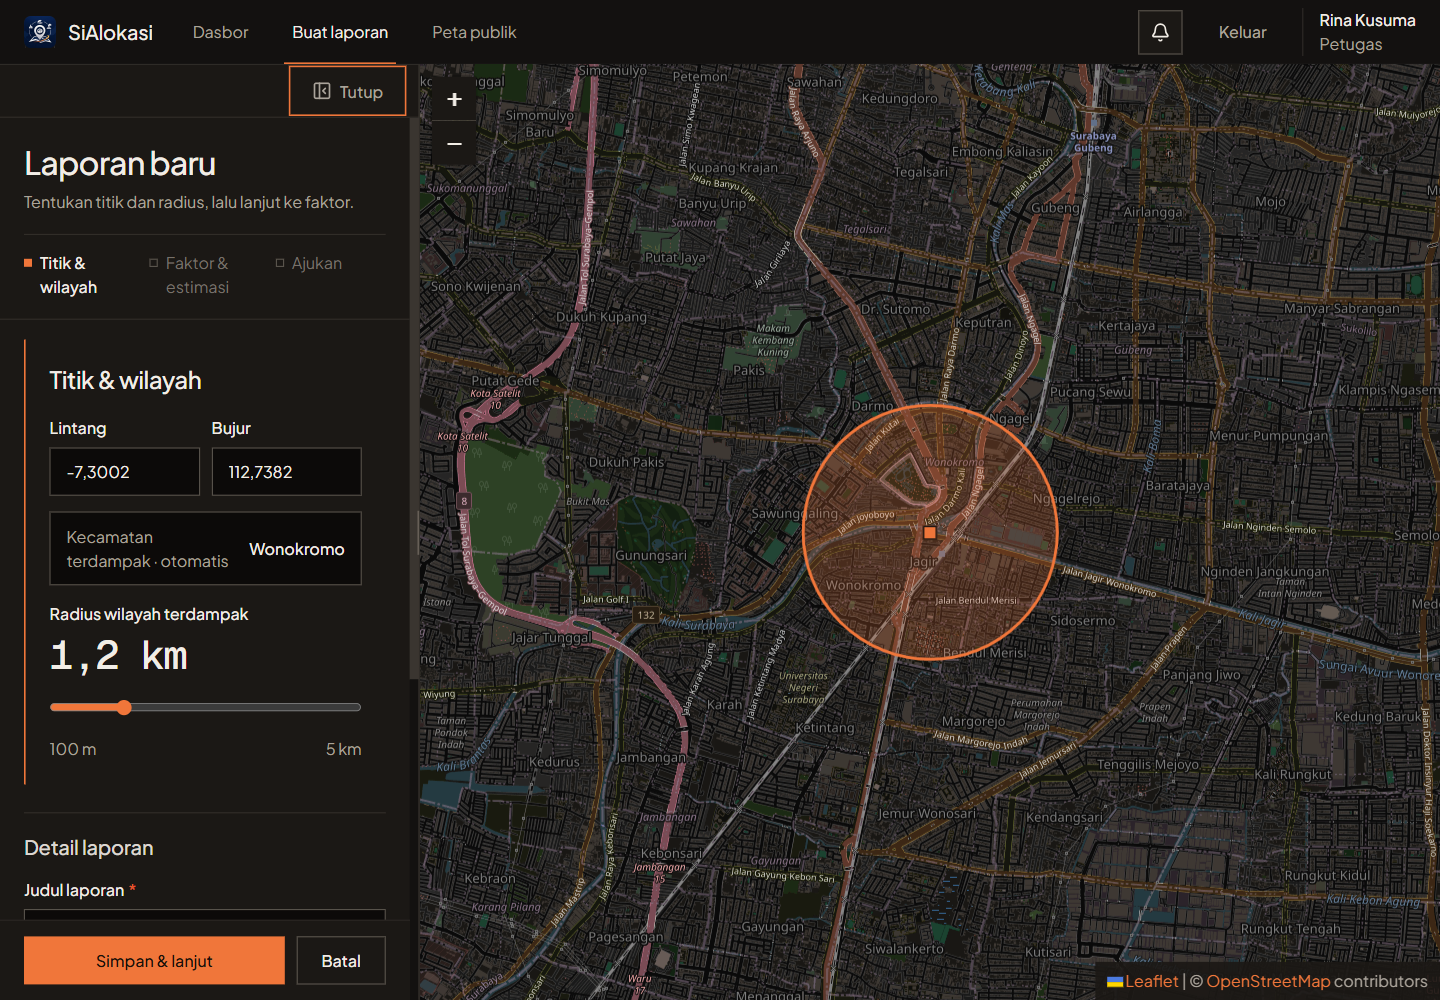
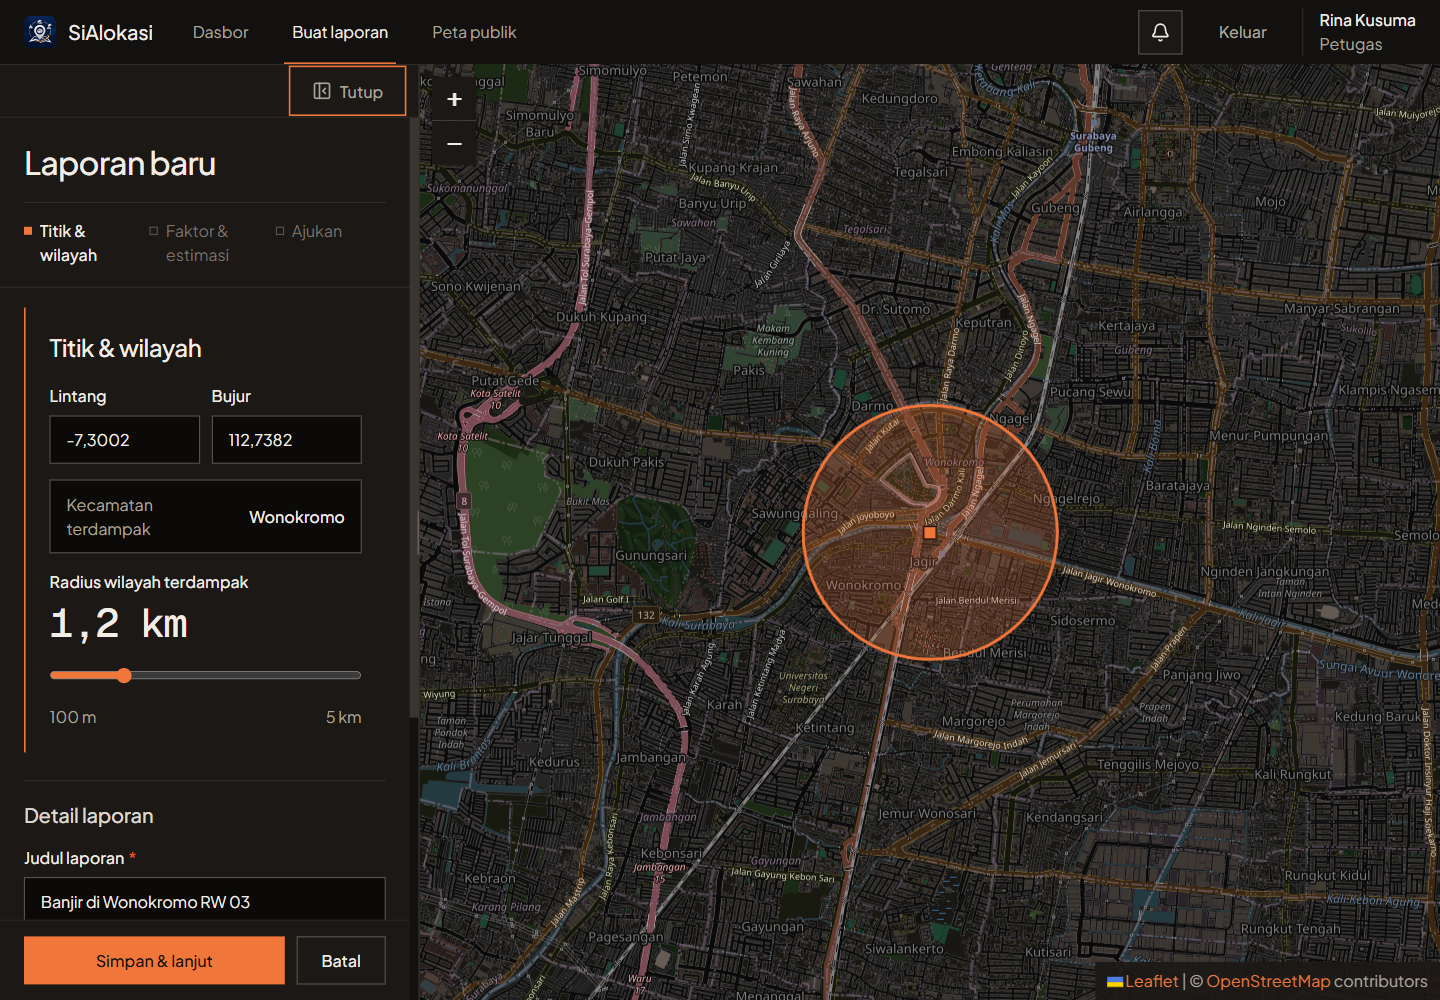
docs(r2): aturan tanpa kalimat penggantung + bukti sapuan kedua
- AGENTS.md (lokal, tidak ikut ter-push) mematok 4 pengecualian dan cara memeriksa
- PRD: NFR-16; papan sprint mencatat sapuan; bukti revisi diperbarui + tangkapan layar baru

diff --git a/docs/bukti/revisi-2026-11-13.md b/docs/bukti/revisi-2026-11-13.md
@@ -55,3 +55,73 @@ npm run dev                       # api + web menyala
 node scripts/capture-revisi.mjs   # Chrome dengan --remote-debugging-port=9222
 npm run demo:reset                # kembali ke kondisi bersih
 ```
+
+---
+
+## Tambahan: sapuan "tanpa kalimat penggantung" (2026-11-13, putaran kedua)
+
+Pemilik proyek memberi daftar sembilan kalimat yang menurutnya tidak perlu, lalu meminta polanya
+dipatok menjadi gaya proyek dan disapu ke seluruh halaman.
+
+### Analisis pola
+
+Kesembilan kalimat itu ternyata termasuk lima kategori yang sama:
+
+| Kategori | Contoh dari daftar pemilik |
+| :-- | :-- |
+| Tagline di bawah judul yang hanya mengulang langkah | "Tentukan titik dan radius, lalu lanjut ke faktor." · "Isi faktor lapangan, lalu hitung estimasi." |
+| Kalimat alasan / penenangan (editorial) | "Faktor dipakai untuk menghitung kebutuhan, bukan untuk menilai siapa yang salah." |
+| Contoh pada `hint` yang mengulang label | "Sebutkan sendiri, misalnya: tanah longsor atau letusan gunung." |
+| Penjelas status yang mengulang chip status | "Masih bisa disunting sebelum diajukan." · "Sudah terkunci dan menunggu keputusan pimpinan." · "Distribusi sudah dilakukan" |
+| Sufiks kualifier & penghitung jumlah | "Kecamatan terdampak · otomatis" · "Lima laporan terakhir dari akun Anda." |
+
+### Yang dihapus
+
+**31 kalimat dihapus dan 5 dipendekkan di 19 berkas** (`apps/web/src`):
+
+| Halaman | Yang berubah |
+| :-- | :-- |
+| Beranda publik | tagline "Pilih kejadian di peta atau daftar untuk melihat rinciannya." |
+| Buat laporan | tagline "Tentukan titik dan radius…", hint "Sebutkan sendiri…", label "Kecamatan terdampak · otomatis" → "Kecamatan terdampak" |
+| Dasbor petugas | 3 `hint` status pada kartu ringkasan + "Lima laporan terakhir dari akun Anda." |
+| Faktor & estimasi | `brief` judul + `brief` bagian "Faktor lapangan" |
+| Ajukan laporan | `brief` "Periksa rincian bantuan, lalu ajukan ke pimpinan." |
+| Dasbor pimpinan | `brief` judul, `brief` "Antrian keputusan", kalimat "Jumlah dihitung terpisah per jenis…" |
+| Tinjau laporan | 2 `brief` + `hint` "Alasan perubahan"; `hint` penolakan dipendekkan jadi "Minimal 5 karakter." |
+| Izin distribusi | `brief` "Periksa dokumen…", `hint` "Alasan koreksi", kalimat riwayat koreksi dipendekkan |
+| Lacak status | tetap mempertahankan "Kode diberikan petugas saat laporan dibuat." (informasi unik) |
+| Masuk / daftar | `brief` langkah email, 2 `hint` pada formulir daftar |
+| Admin (akun, ringkasan, wilayah, jenis bantuan, audit) | 6 `brief` judul halaman |
+| Panel demo | 2 `brief`; peringatan reset **tetap dipertahankan** |
+| Komponen peta posko | kalimat dipendekkan jadi "Klik peta untuk memindahkan titik posko." |
+| Pustaka komponen (`/ui`) | 1 `hint` dipendekkan jadi "Boleh dikosongkan." |
+
+### Yang dipertahankan (masuk salah satu pengecualian)
+
+| Kalimat | Alasan |
+| :-- | :-- |
+| "Reset menghapus seluruh laporan, izin, jurnal stok, audit, dan sesi masuk…" | peringatan aksi merusak |
+| "Menipis berarti sisa ≤ 20% dari stok tertinggi item yang sama." | aturan isi yang tidak bisa ditebak |
+| "Izin yang sudah digantikan koreksi tidak dihitung dua kali." | aturan hitung |
+| "Boleh tetap sama atau diganti. Stok posko sebelumnya akan dikembalikan." | konsekuensi |
+| "Kode diberikan petugas saat laporan dibuat." · "Mode demo: kode selalu 123456." | informasi unik |
+| "Total kelompok rentan tidak boleh melebihi jumlah jiwa terdampak." | syarat isi formulir |
+| Catatan API (`append-only`, privasi pelapor, lingkup notifikasi) | aturan & privasi |
+| Pesan error/warning dan `EmptyState` | selalu menyebut langkah berikutnya |
+
+### Pengerasan aturan
+
+1. `AGENTS.md` §7 — aturan **"Tanpa kalimat penggantung"** beserta 4 pengecualian, daftar contoh
+   terlarang, dan cara memeriksa (`brief=`, `hint=`, `<p>` muted di bawah judul).
+2. `docs/prd/prd.md` — `NFR-16`.
+3. `verify:m1` — dua pemeriksaan baru: frasa terlarang (10 frasa dipantau) dan pola langkah pada
+   `brief`/`hint` (`lalu`, `untuk melihat`, `agar`) harus 0 hasil.
+
+### Hasil pengujian
+
+| Pemeriksaan | Hasil |
+| :-- | :-- |
+| `npm run build` | lulus |
+| `npm test` | 100/100 lulus |
+| `verify:m1` | **20 pemeriksaan lulus** (termasuk 2 pemeriksaan gaya teks baru) |
+| `node scripts/capture-revisi.mjs` | **12/12 lulus, 0 kesalahan konsol** — tangkapan layar diperbarui |

diff --git a/docs/prd/prd.md b/docs/prd/prd.md
@@ -188,6 +188,7 @@ Pendaftaran mandiri hanya untuk peran **Petugas** dan harus diaktifkan Admin. Pi
 | `NFR-13` | Model deterministik & berversi; hasil bisa direproduksi | Jalankan 10× dengan input sama → identik |
 | `NFR-14` | Data pribadi minimal: Tamu tidak melihat kontak pelapor | Periksa respons API publik |
 | `NFR-15` | Semua warna dari token `@theme`; tidak ada hex lepas di halaman | Pencarian `#` di `apps/web/src` selain token = 0 |
+| `NFR-16` | Tanpa kalimat penggantung: `brief`/`hint` hanya untuk peringatan aksi, aturan isi, konsekuensi, atau pesan gagal — bukan tagline atau pengulang langkah | `verify:m1`: frasa terlarang & pola langkah pada `brief`/`hint` = 0 hasil |
 
 ---
 

diff --git a/docs/rencana-sprint.md b/docs/rencana-sprint.md
@@ -576,6 +576,7 @@ menunggu, dan jalan masuk laporan yang sudah disetujui).
 - [x] 31 kecamatan tersedia dan deteksi titik diuji (termasuk Mulyorejo).
 - [x] Tidak ada kolom lama penanganan di formulir maupun API.
 - [x] Dasbor menampilkan bantuan menunggu per jenis dan daftar laporan menunggu distribusi.
+- [x] Sapuan teks: seluruh `brief`/`hint`/tagline penggantung dihapus dari semua halaman; aturannya dipatok di `AGENTS.md` §7 dan dipantau `verify:m1` (`NFR-16`).
 - [x] `npm run build`, `npm test`, `verify:m1`—`verify:m5` lulus; demo direset ke 0 transaksi.
 
 **Bukti:** `docs/bukti/revisi-2026-11-13.md`. Keputusan teknis: ADR 0013.
